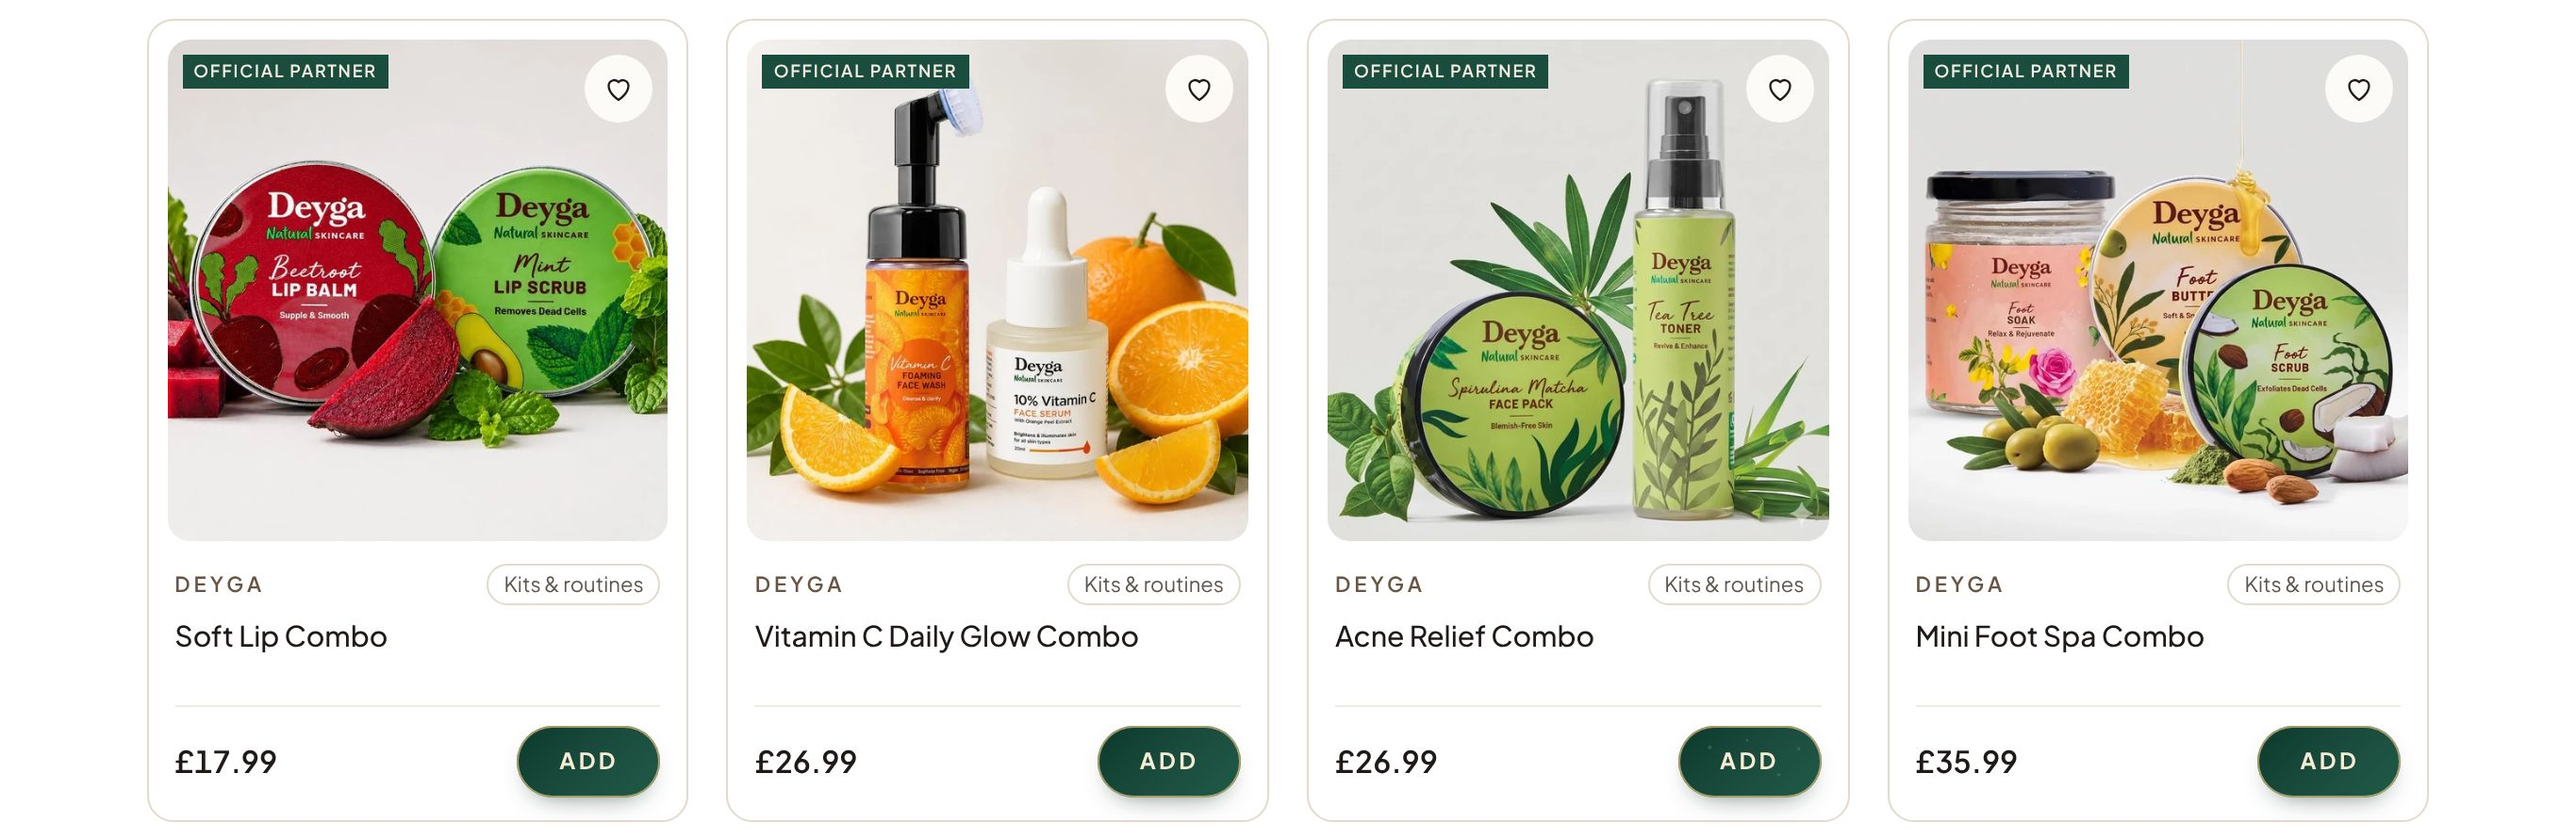
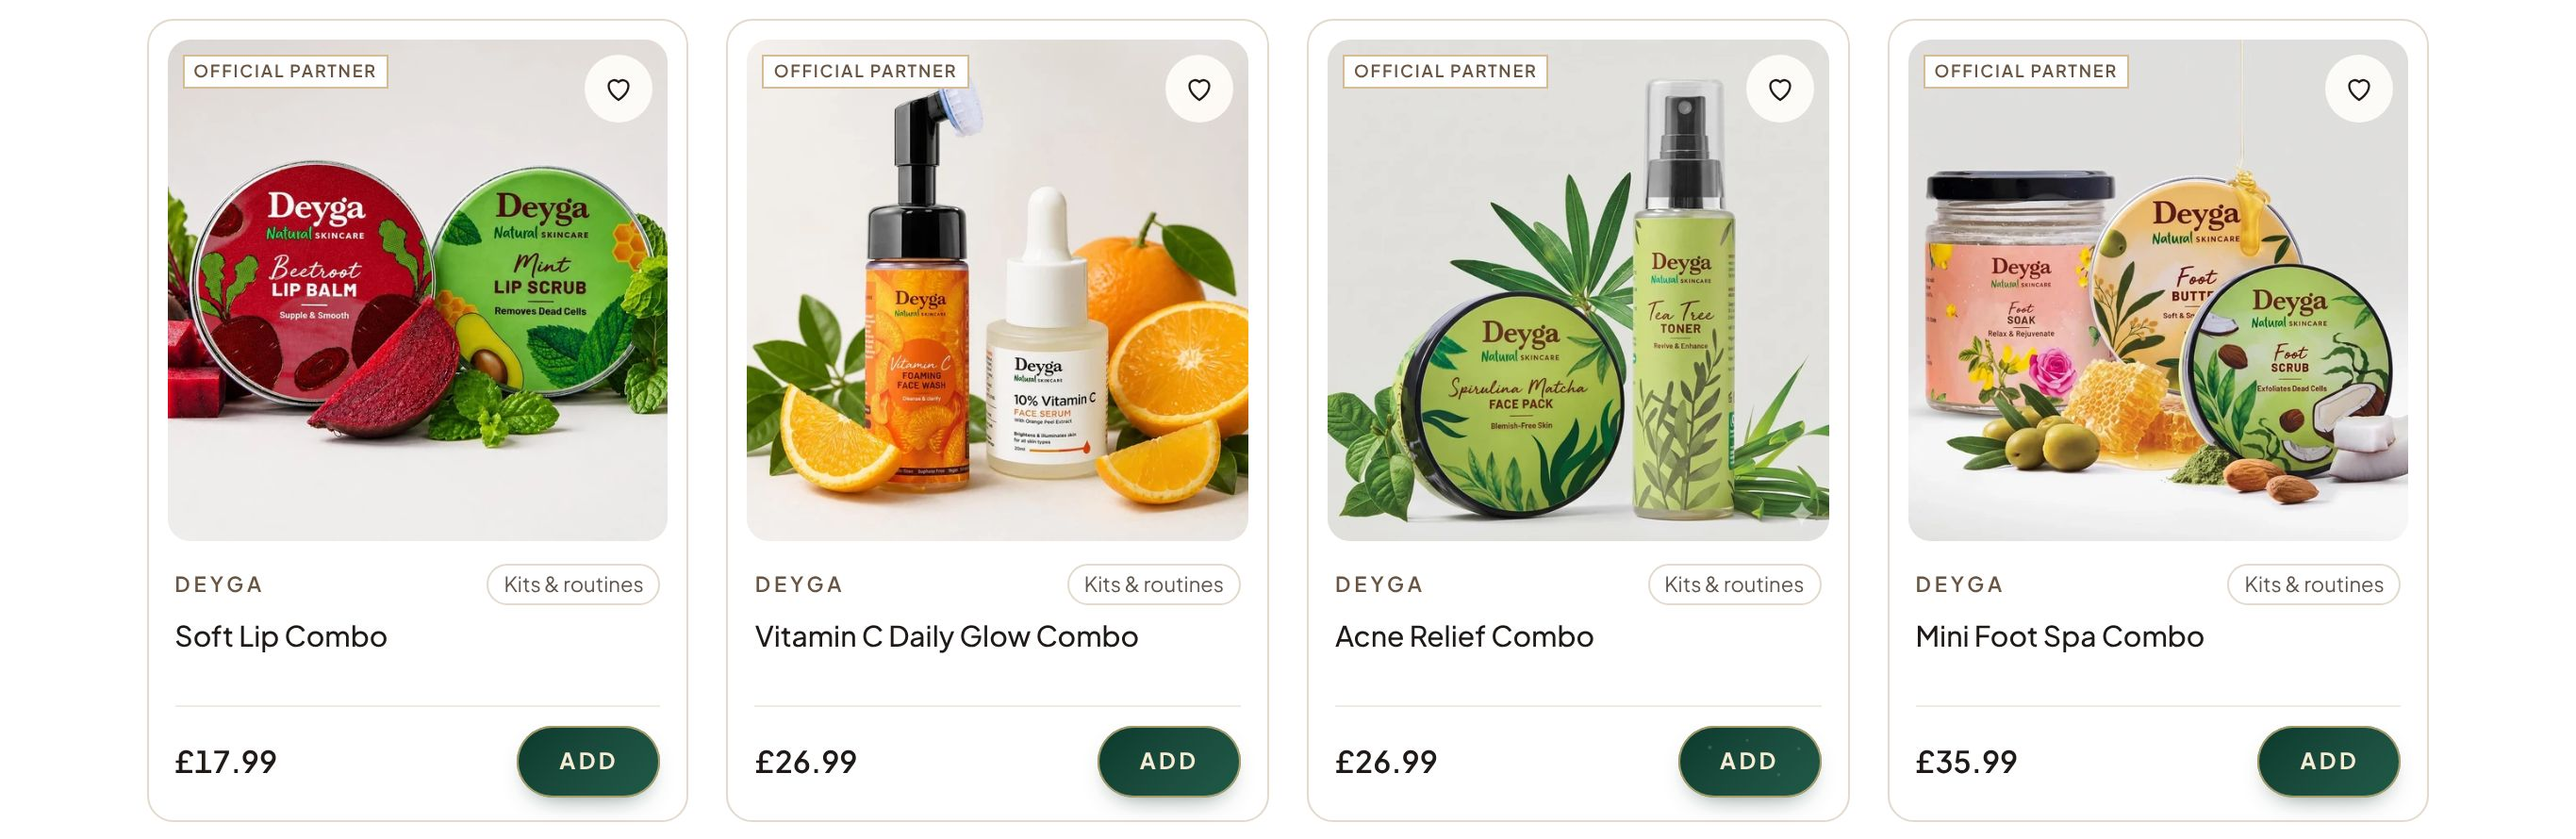
Partner badge in the Studio pick style, full text on phones
Claude-Session: https://claude.ai/code/session_01S2g112JF6CCLo8Tg7CRZKC

diff --git a/theme/assets/sw-proto.css b/theme/assets/sw-proto.css
@@ -2555,4 +2555,7 @@ html.as-open .swp .chatbtn{display:none}
 @media (min-width:901px){.swp .gallery:not(.single) .thumbs{height:0;min-height:100%;max-height:none}.swp #mainImg{aspect-ratio:1/1;align-self:start}}
 /* user, 12 Nov 2026: smaller card badge (Official partner etc.) in the 1:1 frame, top-left on phones too */
 .swp .p-card .p-badge{top:8px!important;left:8px!important;bottom:auto!important;font-size:9px!important;letter-spacing:.1em!important;padding:3px 6px!important;line-height:1.35}
-@media (max-width:800px){.swp .p-card .p-badge{top:6px!important;left:6px!important;font-size:8px!important;letter-spacing:.06em!important;padding:2px 5px!important;max-width:calc(100% - 52px)}}
+.swp .p-card .p-badge.partner{background:var(--card)!important;color:var(--brass-ink)!important;box-shadow:inset 0 0 0 1px rgba(181,132,58,.55)}
+@media (max-width:800px){.swp .p-card .p-badge{top:6px!important;left:6px!important;font-size:8.5px!important;letter-spacing:.05em!important;padding:3px 5px!important;max-width:none!important;overflow:visible!important;text-overflow:clip!important;white-space:nowrap}.swp .p-card .heart:not(.big){top:6px;right:6px;width:28px;height:28px}.swp .p-card .heart:not(.big) svg{width:15px;height:15px}}
+@media (max-width:370px){.swp .p-card .p-badge{font-size:8px!important;letter-spacing:.02em!important;padding:3px 4px!important}}
+@media (max-width:340px){.swp .p-card .p-badge{font-size:7.5px!important;letter-spacing:0!important;padding:3px!important}}

diff --git a/tools/theme/build_proto_css.py b/tools/theme/build_proto_css.py
@@ -356,7 +356,10 @@ html.as-open .swp .chatbtn{display:none}
 @media (min-width:901px){.swp .gallery:not(.single) .thumbs{height:0;min-height:100%;max-height:none}.swp #mainImg{aspect-ratio:1/1;align-self:start}}
 /* user, 12 Nov 2026: smaller card badge (Official partner etc.) in the 1:1 frame, top-left on phones too */
 .swp .p-card .p-badge{top:8px!important;left:8px!important;bottom:auto!important;font-size:9px!important;letter-spacing:.1em!important;padding:3px 6px!important;line-height:1.35}
-@media (max-width:800px){.swp .p-card .p-badge{top:6px!important;left:6px!important;font-size:8px!important;letter-spacing:.06em!important;padding:2px 5px!important;max-width:calc(100% - 52px)}}
+.swp .p-card .p-badge.partner{background:var(--card)!important;color:var(--brass-ink)!important;box-shadow:inset 0 0 0 1px rgba(181,132,58,.55)}
+@media (max-width:800px){.swp .p-card .p-badge{top:6px!important;left:6px!important;font-size:8.5px!important;letter-spacing:.05em!important;padding:3px 5px!important;max-width:none!important;overflow:visible!important;text-overflow:clip!important;white-space:nowrap}.swp .p-card .heart:not(.big){top:6px;right:6px;width:28px;height:28px}.swp .p-card .heart:not(.big) svg{width:15px;height:15px}}
+@media (max-width:370px){.swp .p-card .p-badge{font-size:8px!important;letter-spacing:.02em!important;padding:3px 4px!important}}
+@media (max-width:340px){.swp .p-card .p-badge{font-size:7.5px!important;letter-spacing:0!important;padding:3px!important}}
 """
 
 

diff --git a/CLAUDE.md b/CLAUDE.md
@@ -9,7 +9,7 @@ Read this first in every session. Full history: `docs/HANDOFF.md` (handoff from 
 - EVERY product photo uploaded from now on: convert to WebP, cut out the background (`tools/shopify/cutout_photos.py`, birefnet-general-lite; isnet / `cutout_flood.py` when it fails; check every result by eye), place it on the common emerald tint #EEF3F0 (the theme paints the background for files ending `-cutout.webp`), name it `<handle>-NN-cutout.webp`, and give it alt text '<product title> – <what the photo shows>' (no claims, no scene words the cut-out lost). Graphics/infographics/model shots are NOT cut out: extend them to 4:5 with their own edge colours (`tools/shopify/graphic_fill.py <in> <out>`; scenes whose edge is mostly picture get a blurred copy of the photo behind them), name them `<handle>-NN-fill.<original ext>`, keep their alt (user, 11 Nov 2026: a graphic must not sit as a separate box in the mount). The theme shows `-fill` files edge to edge. Never upload a plain photo without the cut-out or fill.
 
 ## Project
-- **Smaller card badge (user, 12 Nov 2026: the 'Official partner' tag looked too big in the 1:1 cards; 'make it smaller and move towards the top left corner … in mobile'):** the user published the Square photos draft (200659337603 is MAIN, found 12 Nov 2026). New draft **"Swansura – Smaller badge (draft)" (200669266307, duplicated from live 200659337603; preview https://www.swansura.com/?preview_theme_id=200669266307; user publishes)**: only `assets/sw-proto.css` changed (md5 656225b0…, also in build_proto_css.py EXTRA): `.swp .p-card .p-badge` 9 px text, letter-spacing .1em, 3×6 px padding, 8 px from the top-left corner (was 10–11 px text, 26 px tall); on ≤800 px 8 px text, 2×5 px padding, top-left 6 px (was bottom-left), max width 100% − 52 px so it stays clear of the wishlist heart. Preview: 'Official partner' 134×26 → 109×18 px on desktop, 124×26 → 91×15 px on phones, no sideways scroll. Screenshots `docs/images/badge_small_{desktop,phone}_2026-11-12.jpg`. Any further theme change needs a new duplicate of the live theme.
+- **Smaller card badge (user, 12 Nov 2026: the 'Official partner' tag looked too big in the 1:1 cards; 'make it smaller and move towards the top left corner … in mobile'):** the user published the Square photos draft (200659337603 is MAIN, found 12 Nov 2026). New draft **"Swansura – Smaller badge (draft)" (200669266307, duplicated from live 200659337603; preview https://www.swansura.com/?preview_theme_id=200669266307; user publishes)**: only `assets/sw-proto.css` changed (md5 656225b0…, also in build_proto_css.py EXTRA): `.swp .p-card .p-badge` 9 px text, letter-spacing .1em, 3×6 px padding, 8 px from the top-left corner (was 10–11 px text, 26 px tall); on ≤800 px 8 px text, 2×5 px padding, top-left 6 px (was bottom-left), max width 100% − 52 px so it stays clear of the wishlist heart. Preview: 'Official partner' 134×26 → 109×18 px on desktop, 124×26 → 91×15 px on phones, no sideways scroll. Then (user, 12 Nov 2026: phone badge text cut off; 'try like studio pick, that design was nice'): 'Official partner' now uses the Studio pick look (white card fill, brass-ink text, thin brass inset line) everywhere; on phones the full text always shows (no ellipsis, 8.5 px, 8 px ≤370, 7.5 px ≤340) and the card heart is 28 px at 6 px from the corner (was 36 px), so badge and heart never touch (gap 20 / 16 / 5 px at 390 / 360 / 320). sw-proto.css md5 2182230f… on the draft. Screenshots `docs/images/badge_small_{desktop,phone}_2026-11-12.jpg`. Any further theme change needs a new duplicate of the live theme.
 - **Whole site 1:1 (user, 12 Nov 2026: 'The complete website should be in the 1:1 dimension. There is no 4:5 dimension in the entire website … Every product display … 1:1'):** store: the last 204 4:5 `-fill` graphics (anatomē 135, Jo Milano 25, Highborn 22, Swansura 6, Chris Adams 4, Armaf/Guerlain/Korloff 3, NBW/Hemel/Signature 1) re-widened from their originals to 1200x1200 (`tools/shopify/square_fills.py <storefront dump> <plan>` → `docs/images/square_2026-11-12/<name>-sq.<ext>`) and replaced in place with fileUpdate (same media id/alt/position; plan + undo `docs/backups/square_fills_plan_2026-11-12.json`; originals still in `docs/backups/graphic_fill_originals_2026-11-11/`). Storefront check (892 products): 0 `-fill` files, all 1,018 non-cut-out images square; the 2,631 cut-outs are transparent 4:5 files shown `contain` on the #EEF3F0 tint inside square frames. Theme, same draft 200659337603 (preview https://www.swansura.com/?preview_theme_id=200659337603; user publishes), sw-proto.css md5 59f118f6… (also in build_proto_css.py EXTRA): `.swp .pic` 1:1 everywhere (PDP main, thumbs, Complete the ritual, FBT, bag, hero arch, advent doors, placeholders, routine steps, range bands), cut-outs `contain`; desktop PDP: `#mainImg` 1:1 + thumbnail column `height:0;min-height:100%` (it had stretched the main frame to 512x710). Preview checked at 1366 + 390 on home, anatomē + Deyga PDPs, anatome + gifts-under-50 collections: 0 non-square product images (only brand logos), no sideways scroll, 0 empty alts, no Liquid errors. Screenshots `docs/images/square_site_*_2026-11-12.jpg`.
 - **Square photos ROLLED OUT, Vilvah + Deyga + all cards 1:1 (user, 12 Nov 2026: after the 1:1 test 'Okay Go head, all the 3'):** (1) originals back on all 160 active Vilvah/Deyga products: 671 files restored in place (fileUpdate originalSource + filename; -fill files back to their originals, 3 cut-outs whose truncated names had also been -fill-renamed handled by id), 200 detached originals re-attached and put back at their old gallery positions (productReorderMedia, payload field is `mediaUserErrors` now), 200 cut-outs detached (not deleted), 40 option links moved back; (2) 215 non-square originals (Deyga ~4:5, 5 Vilvah) widened to 1200x1200 with their own edge colours, never cropped (`tools/shopify/graphic_fill.py --square` / `set_square()`; `tools/shopify/square_photos.py <scratch>` builds the plan; files `docs/images/square_2026-11-12/<stem>-sq.<ext>`, contact sheets checked by eye); storefront check: Deyga 340 + Vilvah 470 images all square, 0 -cutout/-fill. (3) Theme draft renamed **"Swansura – Square photos (draft)" (200659337603, from live 200649539971; preview https://www.swansura.com/?preview_theme_id=200659337603; user publishes)**: every product card image 1:1 (`.swp .p-card img.pic` aspect 1/1 cover; cut-outs `contain` on the tint; placeholder 1:1), the ?sq=1 test script removed (theme.liquid back to live md5 bcb76ed7…), sw-proto.css md5 3bc26a61… (also in build_proto_css.py EXTRA); PDP keeps sq frame for square photos, 4:5 for cut-outs. Preview: deyga / vilvah / gifts-under-50 at 1366 + 390 no sideways scroll, 0 empty alts, no Liquid errors; screenshots `docs/images/square_final_*_2026-11-12.jpg`. Until published, live shows the square originals on the old beige mount. Undo: `docs/backups/square_photos_before_2026-11-12.json` (cur + plan). Standing photo rule for Vilvah/Deyga changes: original photo, widened to square, no cut-out.
 - **Square photos sample, Vilvah/Deyga (user, 12 Nov 2026: 'the Cut-out … Not Suitable for … Deyga … and Vilvah … Reverse that to Original and Make the Dimension as 1:1 … Do for the Sample'):** 8 products on /collections/serum (Vilvah AM PM Serum Kit, Better Ageing, Milk Drops; Deyga 2% HA, Rose Glow, Neem Seed Oil, 10% Vitamin C, Beautifying Serum) reverted on the LIVE store: originals re-attached in their old positions (fileUpdate referencesToAdd + productReorderMedia), cut-outs detached (not deleted), 4 variant links moved back, 32 `-fill` graphics restored to their original files. Plan + undo `docs/backups/square_sample_revert_2026-11-12.json`. Vilvah originals are square (1000×1000), Deyga ~4:5 (906×1156). Theme draft **"Swansura – Square photos sample (draft)" (200659337603, from live 200649539971; preview https://www.swansura.com/?preview_theme_id=200659337603; user publishes)**: `sw-p-card` + `sw-p-product` add class `sq` when aspect 0.95–1.05 (1:1 frame, no padding/multiply, cover) and `full` for 4:5 originals that are not -cutout/-fill (edge to edge); hover 2nd photo shown only when it has the same shape. CSS in sw-proto.css (patched directly, also in build_proto_css.py EXTRA). Preview: no sideways scroll 1366/390, 0 empty alts, no Liquid errors; screenshots `docs/images/square_sample_serum_{desktop,phone}_2026-11-12.jpg`. Until published, the 8 show originals on the old beige mount on live. Waiting for the user's call on rolling out to all Vilvah/Deyga. 1:1 TEST MODE (user, 12 Nov 2026: mixed 4:5 + 1:1 'looks so inorganic', check all-1:1): same draft, `?sq=1` on any preview URL adds `html.sq1` (sessionStorage, `?sq=0` turns it off; script in theme.liquid head) and every product card image becomes 1:1 (cut-outs contain on the tint, other photos cover); PDP unchanged. Screenshots `docs/images/square_1x1_test_*_2026-11-12.jpg`. Finding: cut-outs + Vilvah squares look even; Deyga 4:5 originals lose the dropper tops when cropped (Neem Seed Oil, Beautifying, 10% Vitamin C) → would need extending to square, not cropping. sw-proto.css md5 48f7987d…
